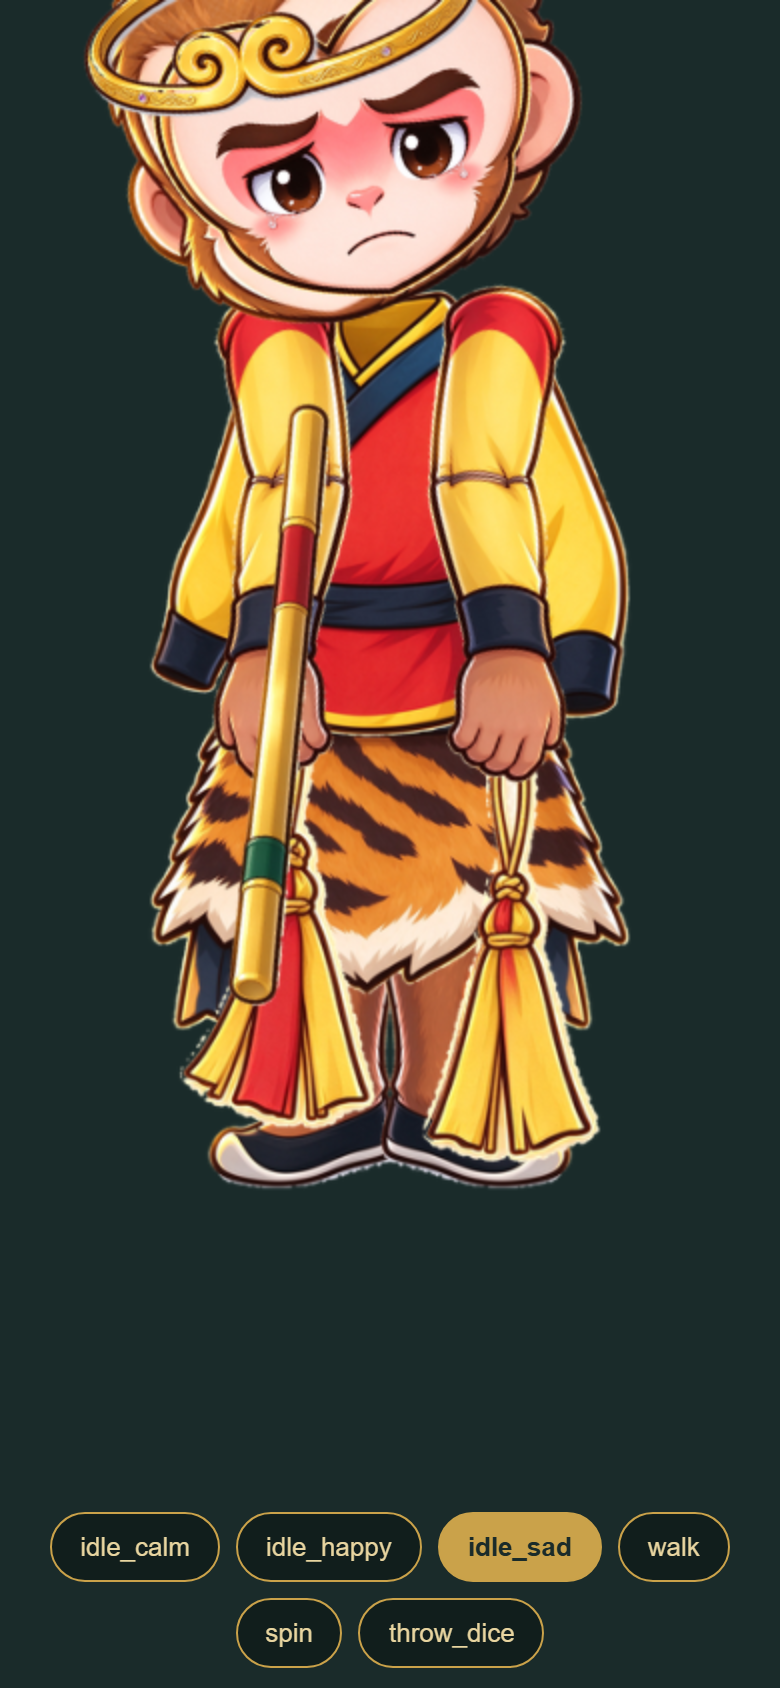
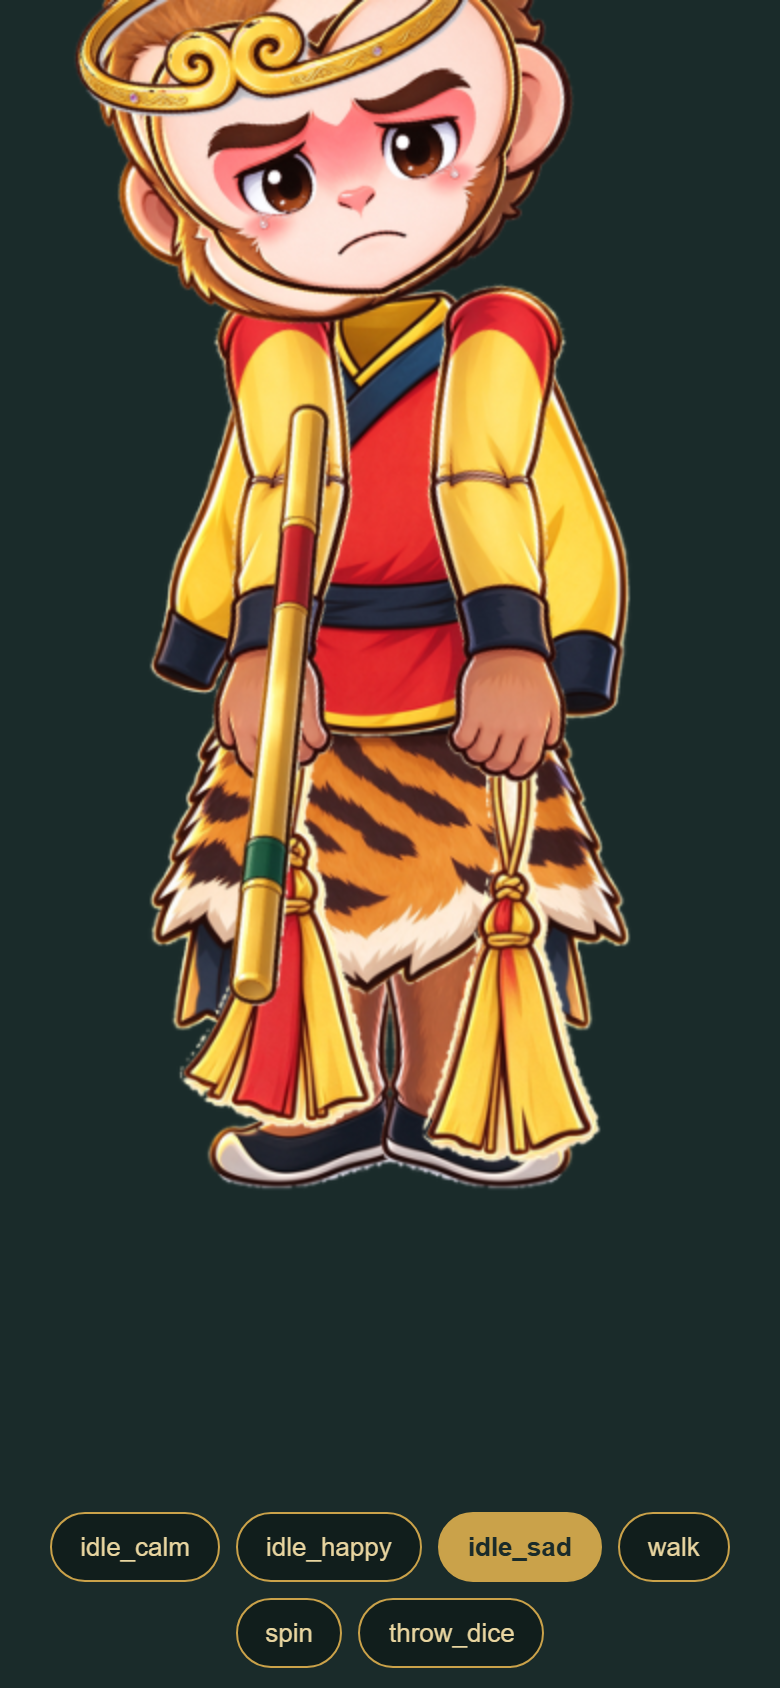
fix(mono-spine): idle_sad 头左移 5→10

Changed region(s): [[0.0923, 0.0, 0.7385, 0.2156]]

diff --git a/monopoly/tools/spine-build/build_wukong.py b/monopoly/tools/spine-build/build_wukong.py
@@ -296,7 +296,7 @@ def build_animations(anims):
 
     # --- idle_sad：低头塌肩下沉 + 委屈脸（2s loop）---
     rot("idle_sad", "head", [(0, 14), (1.0, 17), (2.0, 14)])
-    tra("idle_sad", "head", [(0, -5, 0), (2.0, -5, 0)])   # 用户校准：该动画头左移 5
+    tra("idle_sad", "head", [(0, -10, 0), (2.0, -10, 0)])   # 用户校准：该动画头左移 10
     rot("idle_sad", "arm_l", [(0, 14), (1.0, 18), (2.0, 14)])
     rot("idle_sad", "arm_r", [(0, -14), (1.0, -18), (2.0, -14)])
     tra("idle_sad", "chest", [(0, 0, 0), (1.0, 0, -6), (2.0, 0, 0)])
